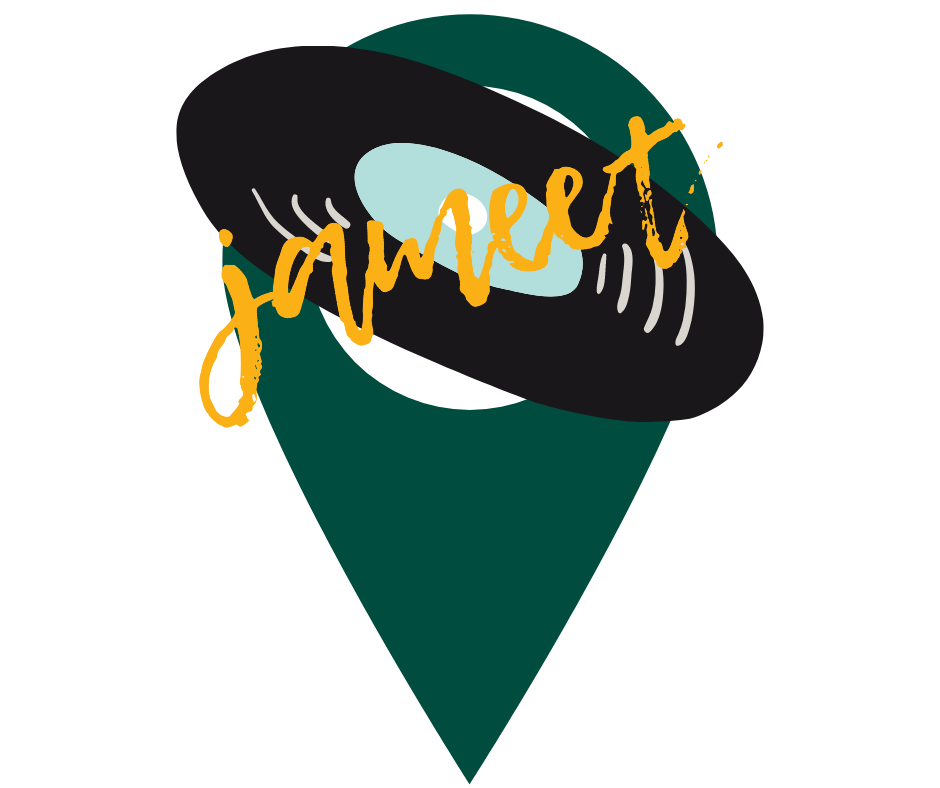
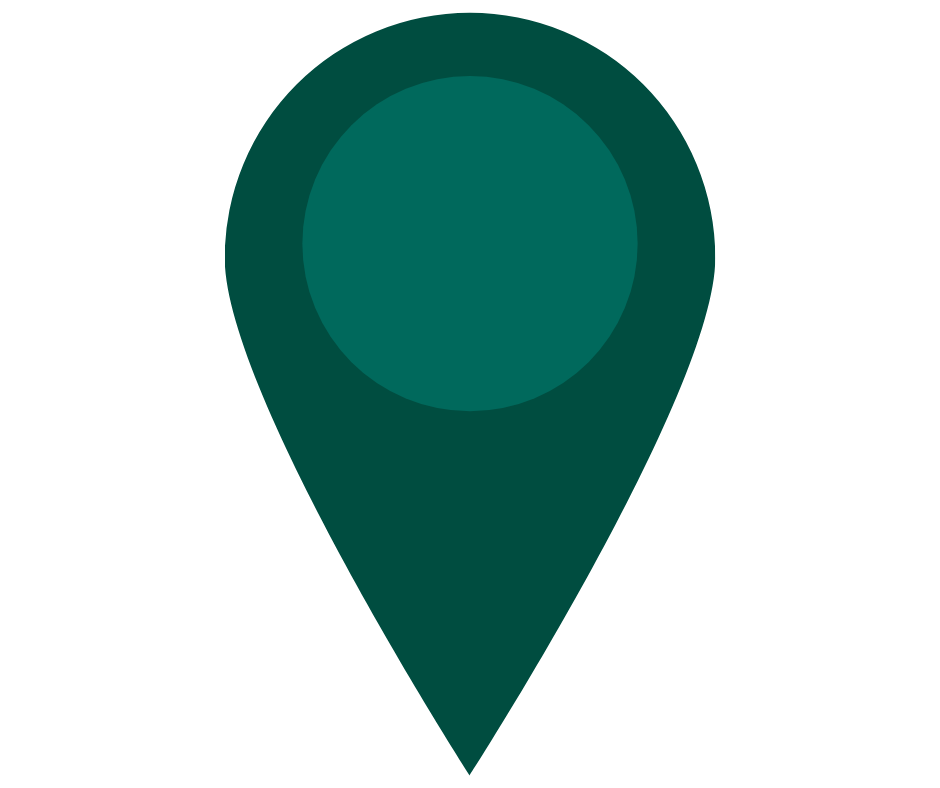
change marker

diff --git a/frontend/src/pages/JamExplore.jsx b/frontend/src/pages/JamExplore.jsx
@@ -7,8 +7,7 @@ import jamThumb from "../assets/img/jam-thumb.jpg"
 import { JamScroll } from "../cmps/JamScroll.jsx";
 import { JamList } from "../cmps/JamList.jsx";
 import { JamPreview } from "../cmps/JamPreview.jsx";
-// import jamMarker from "../assets/img/marker.png"
-import jamMarker from "../assets/img/green.png"
+import jamMarker from "../assets/img/green-only.png"
 
 const mapStyles = {
     width: "50%",
